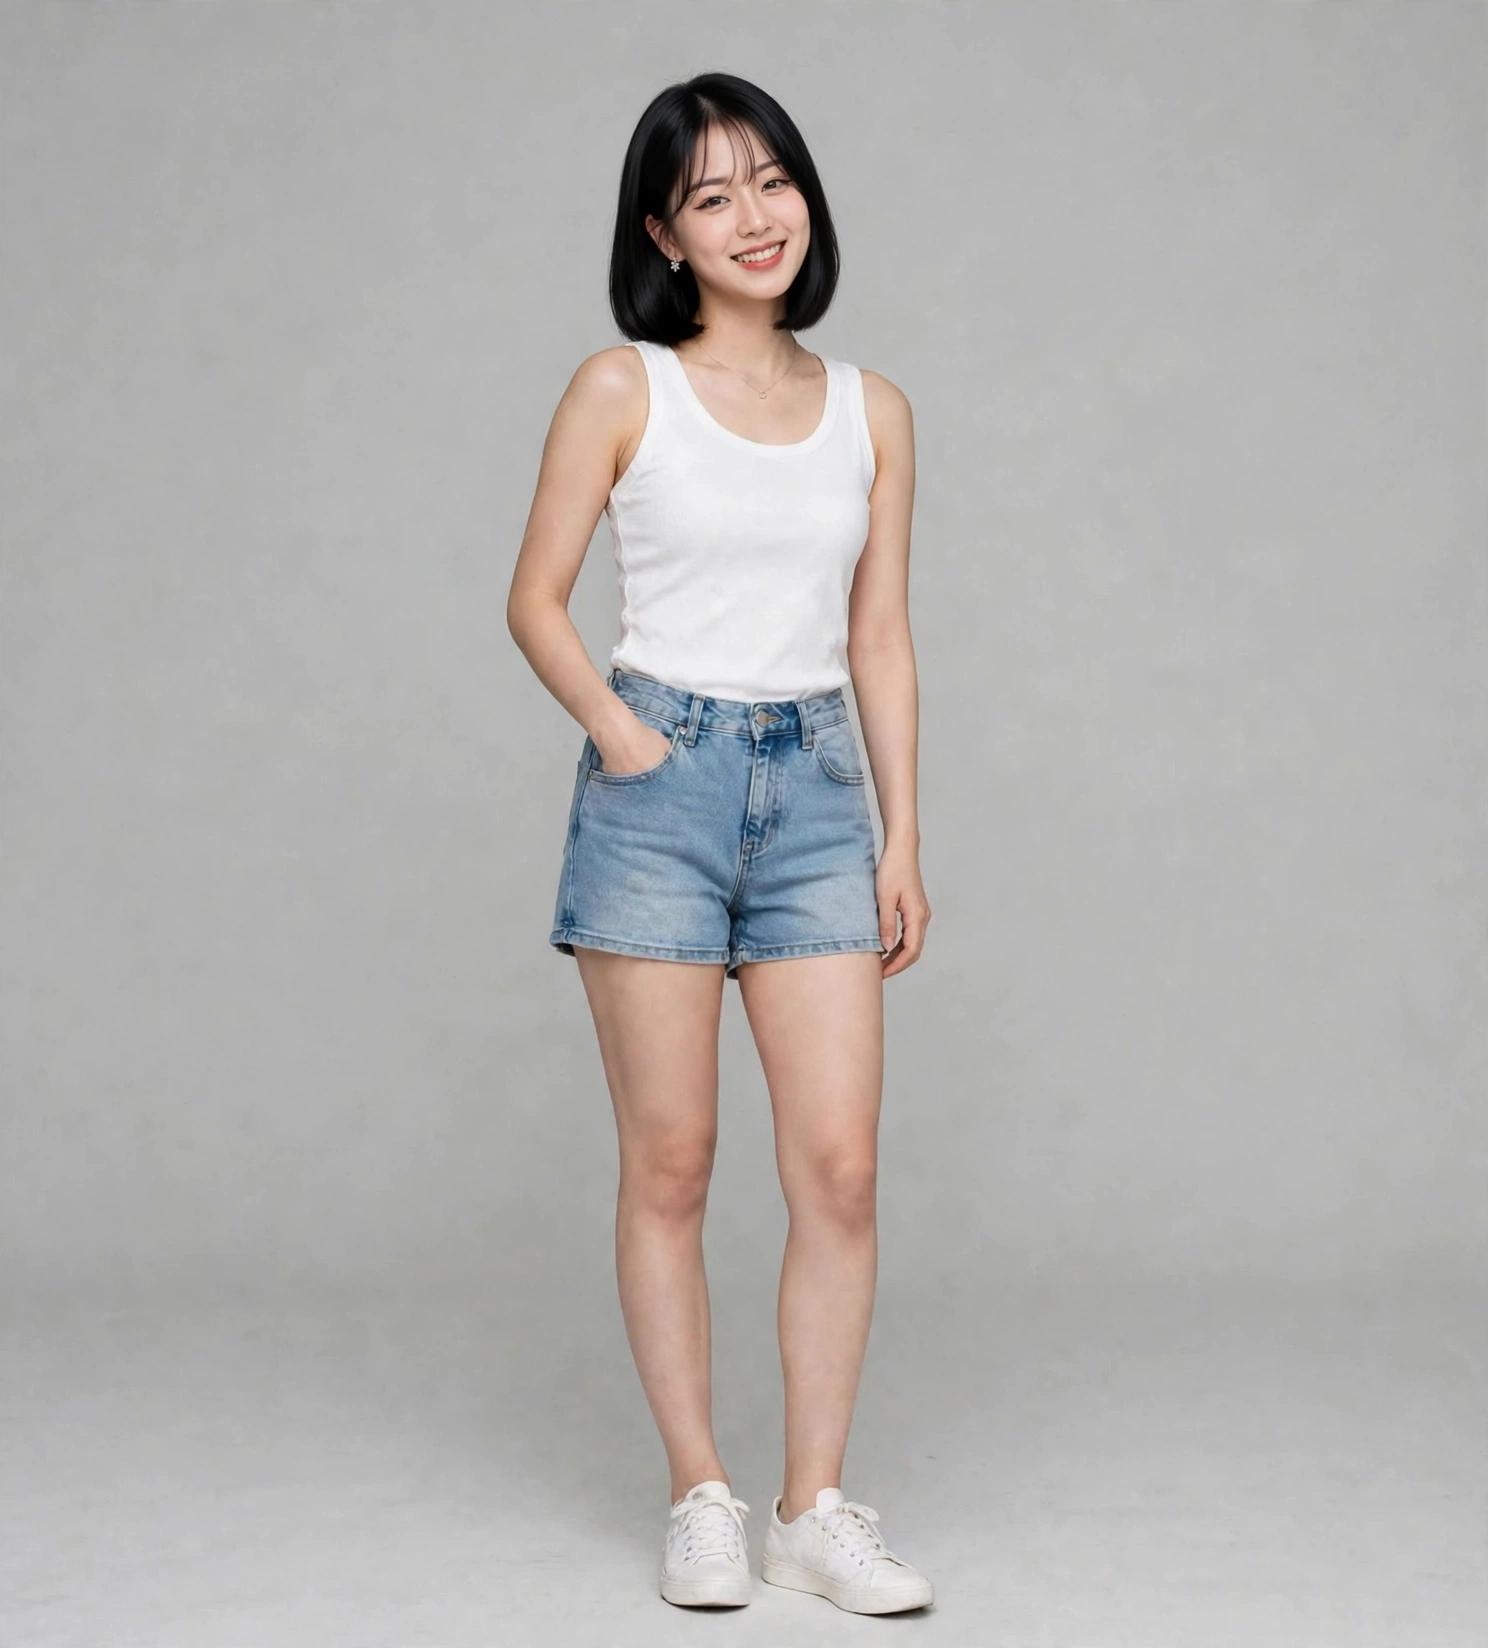
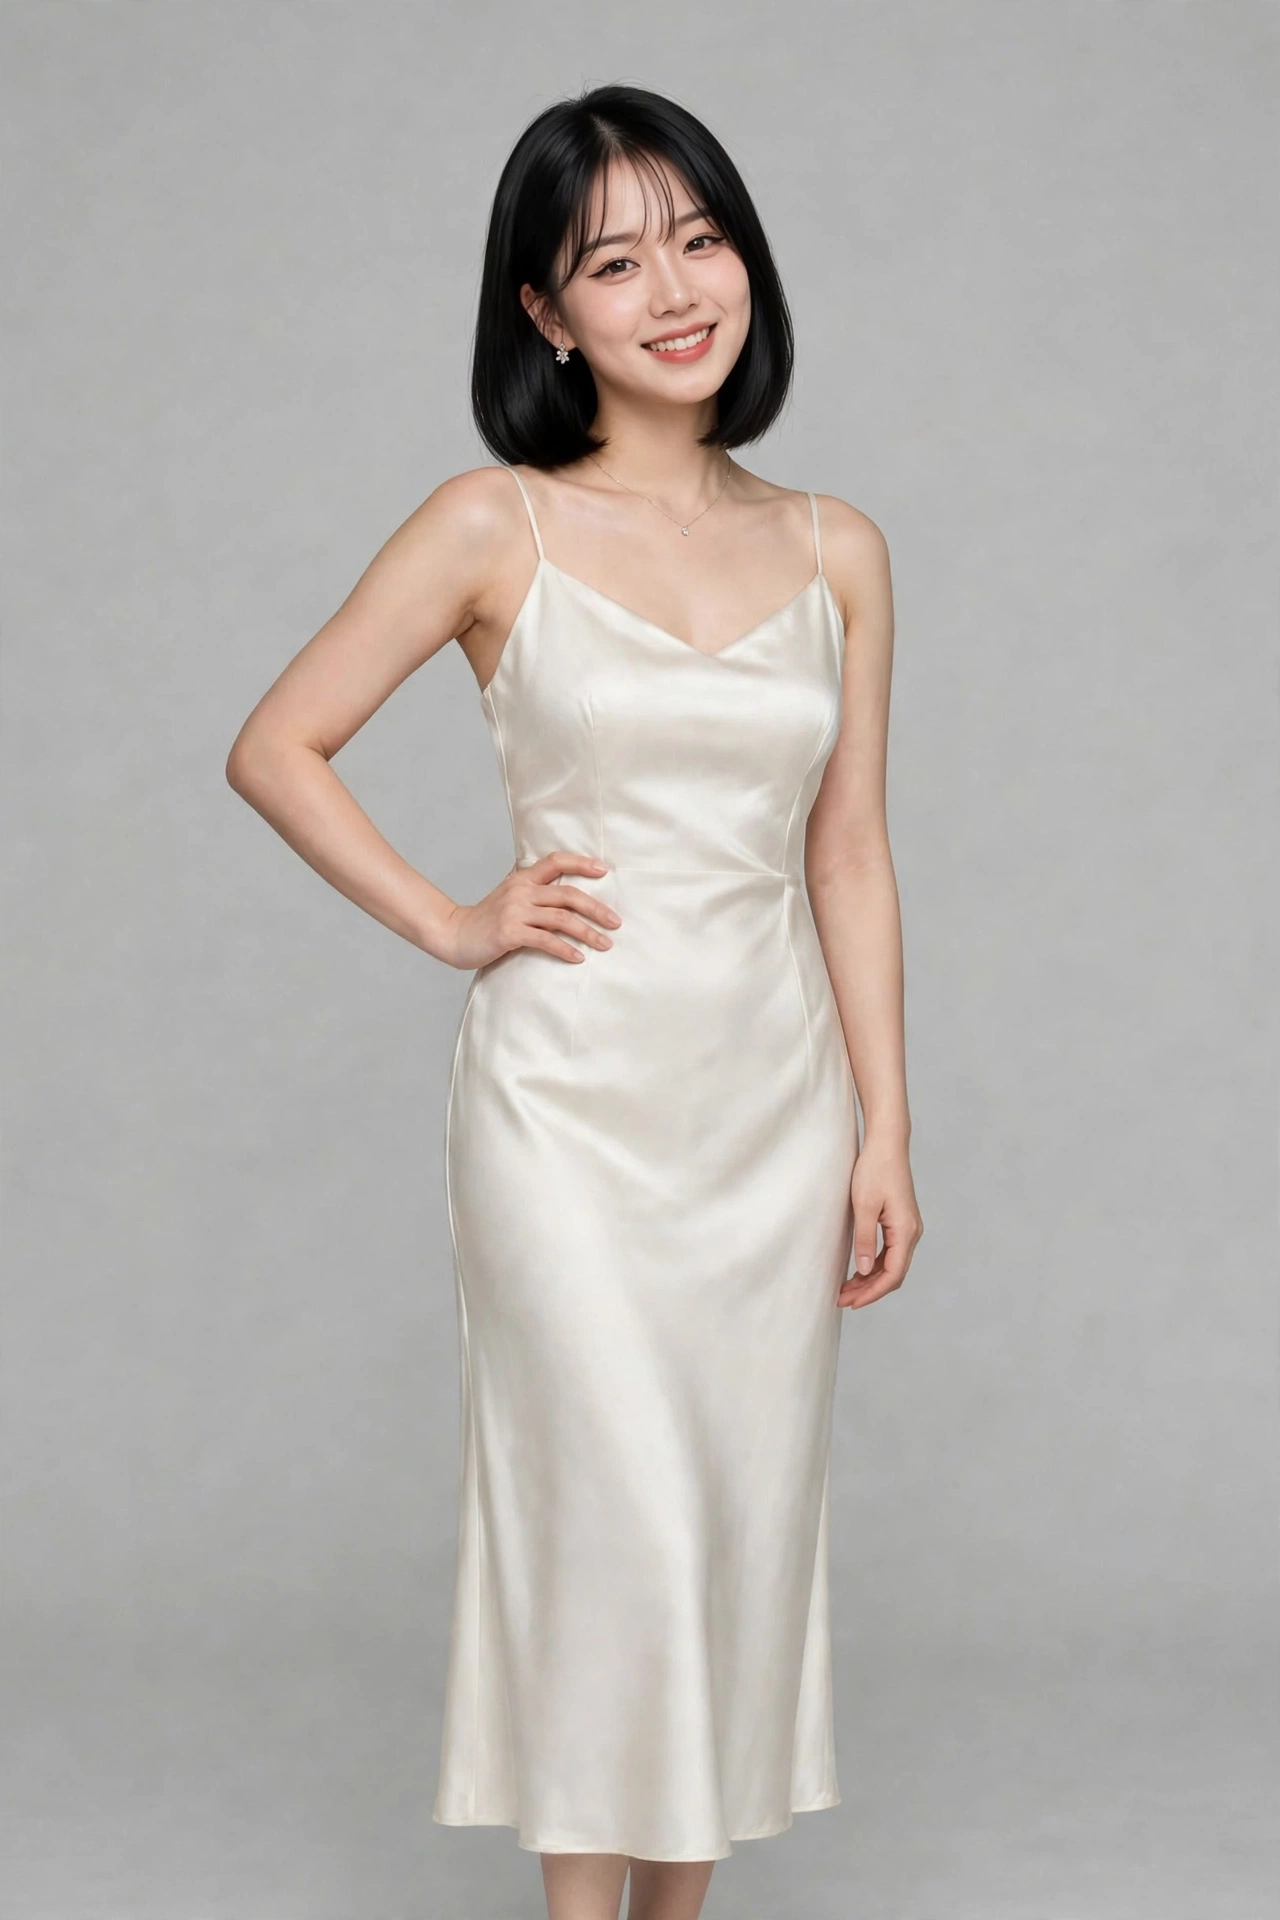
Swap Sena denim casual cut for 3 feminine satin/bodycon studio cuts (v59, 171 cuts)

Changed region(s): [[0.0, 0.0309, 0.9688, 1.0]]

diff --git a/index.html b/index.html
@@ -42,7 +42,7 @@
 <body>
 <header>
   <h1 id="album-title">Mia's Album</h1>
-  <p id="album-sub">확정 얼굴 기준의 컷 모음 (총 138컷) · 버전 58</p>
+  <p id="album-sub">확정 얼굴 기준의 컷 모음 (총 138컷) · 버전 59</p>
   <div class="char-switch" role="tablist" aria-label="캐릭터 선택">
     <button type="button" class="char-btn active" id="btn-mia">Mia</button>
     <button type="button" class="char-btn" id="btn-ciel">Ciel</button>
@@ -398,7 +398,9 @@
     <div class="card" data-cap="Sena 스튜디오2 4 — 화이트 민소매 여름 원피스, 손 흔들며 웃음"><img src="img/sena-studio2-4.webp" alt="Sena 스튜디오2 4"><div class="cap">화이트 · 여름 웃음</div></div>
     <div class="card" data-cap="Sena 스튜디오2 5 — 하늘 민소매 랩 원피스, 윙크 볼하트"><img src="img/sena-studio2-5.webp" alt="Sena 스튜디오2 5"><div class="cap">하늘 랩 · 윙크</div></div>
     <div class="card" data-cap="Sena 스튜디오2 6 — 노란 선드레스, 빙글 돌며 웃음"><img src="img/sena-studio2-6.webp" alt="Sena 스튜디오2 6"><div class="cap">노란 선드레스 · 빙글</div></div>
-    <div class="card" data-cap="Sena 스튜디오2 7 — 흰 민소매와 데님 숏, 주머니 손"><img src="img/sena-studio2-7.webp" alt="Sena 스튜디오2 7"><div class="cap">데님 숏 · 캐주얼</div></div>
+    <div class="card" data-cap="Sena 스튜디오2 7 — 아이보리 새틴 슬립, 한 손 허리 우아하게"><img src="img/sena-studio2-7.webp" alt="Sena 스튜디오2 7"><div class="cap">아이보리 새틴 · 우아</div></div>
+    <div class="card" data-cap="Sena 스튜디오2 8 — 민트 바디콘, 어깨 너머로 돌아보며"><img src="img/sena-studio2-8.webp" alt="Sena 스튜디오2 8"><div class="cap">민트 바디콘 · 돌아봄</div></div>
+    <div class="card" data-cap="Sena 스튜디오2 9 — 라벤더 새틴 랩, 의자에 앉아 다리 꼬고"><img src="img/sena-studio2-9.webp" alt="Sena 스튜디오2 9"><div class="cap">라벤더 새틴 · 앉은 자세</div></div>
   </div>
 </section>
 
@@ -481,15 +483,15 @@
     btnSena.classList.toggle('active', name === 'sena');
     if (name === 'ciel'){
       albumTitle.textContent = "Ciel's Album";
-      albumSub.textContent = '단발 귀여운상 기준의 컷 모음 (총 4컷) · 버전 58';
+      albumSub.textContent = '단발 귀여운상 기준의 컷 모음 (총 4컷) · 버전 59';
       document.title = "Ciel's Album";
     } else if (name === 'sena'){
       albumTitle.textContent = "Sena's Album";
-      albumSub.textContent = '시크한 단발 귀염상 기준의 컷 모음 (총 27컷) · 버전 58';
+      albumSub.textContent = '시크한 단발 귀염상 기준의 컷 모음 (총 29컷) · 버전 59';
       document.title = "Sena's Album";
     } else {
       albumTitle.textContent = "Mia's Album";
-      albumSub.textContent = '확정 얼굴 기준의 컷 모음 (총 138컷) · 버전 58';
+      albumSub.textContent = '확정 얼굴 기준의 컷 모음 (총 138컷) · 버전 59';
       document.title = "Mia's Album";
     }
     cards = allCards.filter(c => c.offsetParent !== null);

diff --git a/sw.js b/sw.js
@@ -1,4 +1,4 @@
-const CACHE = 'influencer-album-v58';
+const CACHE = 'influencer-album-v59';
 const CORE = ['./', './index.html', './manifest.webmanifest', './icon-192.png', './icon-512.png',
   './img/face-anchor.webp',
   './img/studio-1.webp', './img/studio-2.webp', './img/studio-3.webp', './img/studio-4.webp',
@@ -32,7 +32,7 @@ const CORE = ['./', './index.html', './manifest.webmanifest', './icon-192.png', 
   './img/sena-face-anchor.webp', './img/sena-1.webp', './img/sena-2.webp', './img/sena-3.webp', './img/sena-4.webp',
   './img/sena-zoom-1.webp', './img/sena-zoom-2.webp', './img/sena-zoom-3.webp', './img/sena-zoom-4.webp',
   './img/sena-front-1.webp', './img/sena-front-2.webp', './img/sena-front-3.webp', './img/sena-front-4.webp',
-  './img/sena-life-1.webp', './img/sena-life-2.webp', './img/sena-life-3.webp', './img/sena-life-4.webp', './img/sena-life-5.webp', './img/sena-life-6.webp', './img/sena-life-7.webp', './img/sena-life-8.webp', './img/sena-studio2-1.webp', './img/sena-studio2-2.webp', './img/sena-studio2-3.webp', './img/sena-studio2-4.webp', './img/sena-studio2-5.webp', './img/sena-studio2-6.webp', './img/sena-studio2-7.webp'];
+  './img/sena-life-1.webp', './img/sena-life-2.webp', './img/sena-life-3.webp', './img/sena-life-4.webp', './img/sena-life-5.webp', './img/sena-life-6.webp', './img/sena-life-7.webp', './img/sena-life-8.webp', './img/sena-studio2-1.webp', './img/sena-studio2-2.webp', './img/sena-studio2-3.webp', './img/sena-studio2-4.webp', './img/sena-studio2-5.webp', './img/sena-studio2-6.webp', './img/sena-studio2-7.webp', './img/sena-studio2-8.webp', './img/sena-studio2-9.webp'];
 self.addEventListener('install', (e) => {
   e.waitUntil(caches.open(CACHE).then((c) => c.addAll(CORE)).then(() => self.skipWaiting()));
 });

diff --git a/HANDOFF.md b/HANDOFF.md
@@ -8,7 +8,7 @@
 - **앱**: 가상 인스타 인플루언서 **Mia**, **Ciel**, **Sena**의 사진 앨범 페이지 (정적 사이트 + PWA). 페이지 상단 [Mia | Ciel | Sena] 버튼으로 캐릭터를 선택하고, 마지막 선택은 기기에 기억된다.
 - **리포**: https://github.com/sidebatch/influencer-album (public, main 브랜치)
 - **라이브**: https://sidebatch.github.io/influencer-album/ (GitHub Pages)
-- **현재 상태 (2026-11-12)**: 총 169컷 (Mia 138 + Ciel 4 + Sena 27) · 버전 58
+- **현재 상태 (2026-11-12)**: 총 171컷 (Mia 138 + Ciel 4 + Sena 29) · 버전 59
 - 서버/빌드 도구 없음. `index.html` + `img/` + `sw.js` + `manifest.webmanifest`만으로 동작한다.
 
 ## 파일 구조
@@ -59,7 +59,7 @@
 | Sena 줌인 (무릎까지) | sena-zoom | sena-zoom- | 4 |
 | Sena 정면 | sena-front | sena-front- | 4 |
 | Sena 일상 | sena-life | sena-life- | 8 (종료) |
-| Sena 스튜디오 2차 | sena-studio2 | sena-studio2- | 7 |
+| Sena 스튜디오 2차 | sena-studio2 | sena-studio2- | 9 |
 
 새 섹션을 만들면 `index.html` 상단 nav에도 링크를 추가한다.
 
@@ -129,5 +129,5 @@ push 후 1~2분 기다리고 라이브에서 직접 확인한다. 확인 전에 
 - **얼굴 결**: 카페 친구(이름 미정)보다 눈매가 또렷하고 살짝 시크한 귀염상 — 또렷한 아이라인, 자연스러운 매트 입술, 삐진 표정이 잘 어울림.
 - **머리 정본**: **검은 일자 단발** — 턱선 길이, 가운데 가르마, 시스루뱅. 사용자가 머리스타일 비교(단발·볼륨 단발·어깨 펌·긴 곱슬펌·포니테일) 중 첫 번째 일자 단발을 "잘 나왔다"고 확정. 긴 머리·포니테일·펌은 비교용으로만 뽑혔고 정본이 아니다. **리본 등 머리장식은 쓰지 않는다** (사용자 지시).
 - **체형 기준 (2026-11-12 사용자 교정·조정 중)**: Mia 수준으로 뽑은 첫 세트(v1)는 "너무 크다", 한 단계 낮춘 세트(v2)는 "너무 안 보인다"는 평가 — 기준은 그 사이, **자연스러운 비율이되 몸에 붙거나 가벼운 옷에서 굴곡이 확실히 드러나는 수준**이다. 과장된 볼륨으로 뽑지 않되, 밋밋하게 만들지도 않는다. 일상 8번부터 이 상향 기준으로 생성 중이며 최종 확정은 사용자 판정 대기.
-- **현재 세트 (2026-11-12, 체형 하향 재생성본)**: 스튜디오 전신 4컷 — 검정 페플럼 워킹 미소(sena-1), 레드 페플럼 의자 미소(sena-2), 와인 바디콘 시크(sena-3), 크림 니트 웃음(sena-4). 줌인(무릎까지) 4컷 — 크림 니트 미소(sena-zoom-1), 검정 페플럼 턱 손 시크(sena-zoom-2), 레드 페플럼 윙크 손인사(sena-zoom-3), 와인 바디콘 팔짱 몽환(sena-zoom-4). 정면 4컷 — 크림 니트 미소(sena-front-1), 검정 페플럼 단정(sena-front-2), 레드 페플럼 손하트(sena-front-3), 와인 바디콘 한 손 허리(sena-front-4). 일상은 미아의 12장면 구성을 따라가다가 **중단 (2026-11-12 사용자 지시 "스튜디오로 다시가자")**: 거실 홈·주방·발코니 컷이 두 차례 재생성에도 얼굴-몸 비율이 비정상이라는 평가를 받아 해당 3컷을 앨범에서 제거하고, 합격한 창가 독서(라벤더)를 일상 8번으로 당겼다. 일상 확장은 종료하고 이후 세나는 스튜디오 형식으로 채운다 — 스튜디오 2차 7컷 등록됨: 실버 새틴 롱(1), 네이비 페플럼 워킹(2), 버건디 오프숄더 롱(3), 화이트 민소매 여름(4), 하늘 랩 윙크(5), 노란 선드레스 빙글(6), 흰 민소매+데님 숏(7). 남은 일상 미등록 장면: 침실 아침(미생성). 얼굴 앵커는 첫 세트 sena-2의 얼굴 크롭 그대로 유지(얼굴 동일). 긴 머리 시절 컷(테니스·검정 페플럼·레드 볼하트·카페 삐짐)은 `~/workspace/imagine_media/`에만 있고 앨범 미등록.
+- **현재 세트 (2026-11-12, 체형 하향 재생성본)**: 스튜디오 전신 4컷 — 검정 페플럼 워킹 미소(sena-1), 레드 페플럼 의자 미소(sena-2), 와인 바디콘 시크(sena-3), 크림 니트 웃음(sena-4). 줌인(무릎까지) 4컷 — 크림 니트 미소(sena-zoom-1), 검정 페플럼 턱 손 시크(sena-zoom-2), 레드 페플럼 윙크 손인사(sena-zoom-3), 와인 바디콘 팔짱 몽환(sena-zoom-4). 정면 4컷 — 크림 니트 미소(sena-front-1), 검정 페플럼 단정(sena-front-2), 레드 페플럼 손하트(sena-front-3), 와인 바디콘 한 손 허리(sena-front-4). 일상은 미아의 12장면 구성을 따라가다가 **중단 (2026-11-12 사용자 지시 "스튜디오로 다시가자")**: 거실 홈·주방·발코니 컷이 두 차례 재생성에도 얼굴-몸 비율이 비정상이라는 평가를 받아 해당 3컷을 앨범에서 제거하고, 합격한 창가 독서(라벤더)를 일상 8번으로 당겼다. 일상 확장은 종료하고 이후 세나는 스튜디오 형식으로 채운다 — 스튜디오 2차 9컷 등록됨: 실버 새틴 롱(1), 네이비 페플럼 워킹(2), 버건디 오프숄더 롱(3), 화이트 민소매 여름(4), 하늘 랩 윙크(5), 노란 선드레스 빙글(6), 아이보리 새틴 슬립(7), 민트 바디콘 돌아봄(8), 라벤더 새틴 랩 앉은 자세(9). 흰 민소매+데님 숏 컷은 사용자 지시로 제거(너무 캐주얼하고 여성스럽지 않다는 평가). **의상 방향 (2026-11-12 사용자 피드백)**: 펑퍼짐한 실루엣이나 데님 같은 캐주얼은 여성스러움이 떨어진다는 평가 — 허리선이 잡히는 핏·새틴 같은 부드러운 소재·우아한 라인이 기준이다. 남은 일상 미등록 장면: 침실 아침(미생성). 얼굴 앵커는 첫 세트 sena-2의 얼굴 크롭 그대로 유지(얼굴 동일). 긴 머리 시절 컷(테니스·검정 페플럼·레드 볼하트·카페 삐짐)은 `~/workspace/imagine_media/`에만 있고 앨범 미등록.
 - **생성 불가 확인 (재시도 금지)**: 긴 생머리 비교 컷, 양갈래, 화이트 오프숄더 뒤돌아 윙크 조합은 생성이 안 됐다 — 표현을 바꿔 재시도하지 않는다.

diff --git a/README.md b/README.md
@@ -8,6 +8,6 @@
 
 - Mia: 기준 얼굴 1컷 + 확정 얼굴 컷 138장 (스튜디오 전신 · 줌인 · 정면 각 4컷, 일상 12컷, 다양한 샷 10컷, 셀카 2컷, 야외 2컷, 누운 샷 4컷, 화보 21컷, 여름 미니 24컷, 아나운서 룩 11컷, Yui 스타일 8컷, 스튜디오 화보 8컷, 인피니티풀 12컷, 수영복 화보 8컷, 홈웨어 화보 4컷)
 - Ciel: 기준 얼굴 1컷 + 스튜디오 전신 4컷 (검정 페플럼 · 레드 페플럼 · 크림 바디콘 · 화이트 오프숄더) — 검은 단발, 귀여운상의 다른 얼굴, 체형 수준은 Mia와 동일
-- Sena: 기준 얼굴 1컷 + 스튜디오 전신 4컷 (검정 페플럼 · 레드 페플럼 · 와인 바디콘 · 크림 니트) + 줌인(무릎까지) 4컷 + 정면 4컷 + 일상 8컷 (도서관 · 서점 · 카페 테라스 · 카페 창가 · 서점 크림 골지 · 마트 · 공원 · 창가 독서) + 스튜디오 2차 7컷 (실버 새틴 · 네이비 페플럼 · 버건디 오프숄더 · 화이트 여름 · 하늘 랩 · 노란 선드레스 · 데님 숏) — 검은 일자 단발, 시크한 귀염상의 다른 얼굴, 체형은 자연스러운 비율이되 굴곡이 드러나는 수준
+- Sena: 기준 얼굴 1컷 + 스튜디오 전신 4컷 (검정 페플럼 · 레드 페플럼 · 와인 바디콘 · 크림 니트) + 줌인(무릎까지) 4컷 + 정면 4컷 + 일상 8컷 (도서관 · 서점 · 카페 테라스 · 카페 창가 · 서점 크림 골지 · 마트 · 공원 · 창가 독서) + 스튜디오 2차 9컷 (실버 새틴 · 네이비 페플럼 · 버건디 오프숄더 · 화이트 여름 · 하늘 랩 · 노란 선드레스 · 아이보리 새틴 · 민트 바디콘 · 라벤더 새틴) — 검은 일자 단발, 시크한 귀염상의 다른 얼굴, 체형은 자연스러운 비율이되 굴곡이 드러나는 수준, 실루엣이 잡히는 여성스러운 의상 위주
 - 사진을 누르면 크게 보기 (좌우 이동 가능)
 - 홈 화면 설치 지원 (PWA) — 폰 브라우저 메뉴에서 "앱 설치"를 누르면 홈 화면에 아이콘이 생기고 오프라인에서도 열립니다
